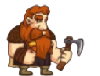
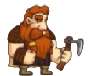
walking right animation

diff --git a/main.py b/main.py
@@ -23,20 +23,22 @@ platForm_group.add(GameObject.PlatForms(340, 360, "lvl1platformImages/rightcorne
 
 screen = pygame.display.set_mode((backgroundImage_Lvl1_rect.width, backgroundImage_Lvl1_rect.height))
 screen_rect = screen.get_rect()
-bobby = GameObject.Character(2,5,(0,0),0,0,"bobby.png")
+bobby = GameObject.Character(2,5,0,425,"bobby.png")
 
 #animations
 walking = pygame.image.load("animationImages/walking.png")
 walking_next = 0
 
 
-
+def walkingRight():
+    screen.blit(walking,tuple(bobby.currentPosition),(101*walking_next,0,100,76))
+    pygame.display.flip()
 
 def renderLevel1():
     screen.blit(backgroundImage_LvL1, backgroundImage_Lvl1_rect)
-    screen.blit(walking,bobby.currentLocation,(100*walking_next,0,105,75))
     platForm_group.draw(screen)
-    pygame.display.flip()
+    
+    
 
 
 def renderLvl2():
@@ -50,11 +52,11 @@ def renderBossLvl():
 
 
 running = True
-# gameloop
+# gameloop1
 while running:
     renderLevel1()
-
-    pygame.time.Clock().tick(10)
+    walkingRight()
+    pygame.time.Clock().tick(7)
     if(walking_next>3):
         walking_next=0
     walking_next +=1
@@ -63,6 +65,10 @@ while running:
     for event in pygame.event.get():
         if event.type == pygame.QUIT:
             running = False
+
+    key = pygame.key.get_pressed()
+    if key[pygame.K_RIGHT]:
+        bobby.currentPosition[0]+=bobby.speed
     
 
 

diff --git a/GameObject.py b/GameObject.py
@@ -9,6 +9,7 @@ class GameObject(pygame.sprite.Sprite):
         self.rect.topleft = (x, y)
         self.x = x
         self.y = y
+        self.currentPosition = [x,y]
 
 
 class Bullet(GameObject):
@@ -32,11 +33,10 @@ class SpeechBubble(GameObject):
 
 
 class Character(GameObject):
-    def __init__(self, speed, health, currentLocation, x, y,image_path):
+    def __init__(self, speed, health, x, y,image_path):
         super().__init__(x, y, image_path)
         self.speed = speed
         self.health = health
-        self.currentLocation = currentLocation
 
     def loseHp(self, damage):
         self.health = self.health - damage
